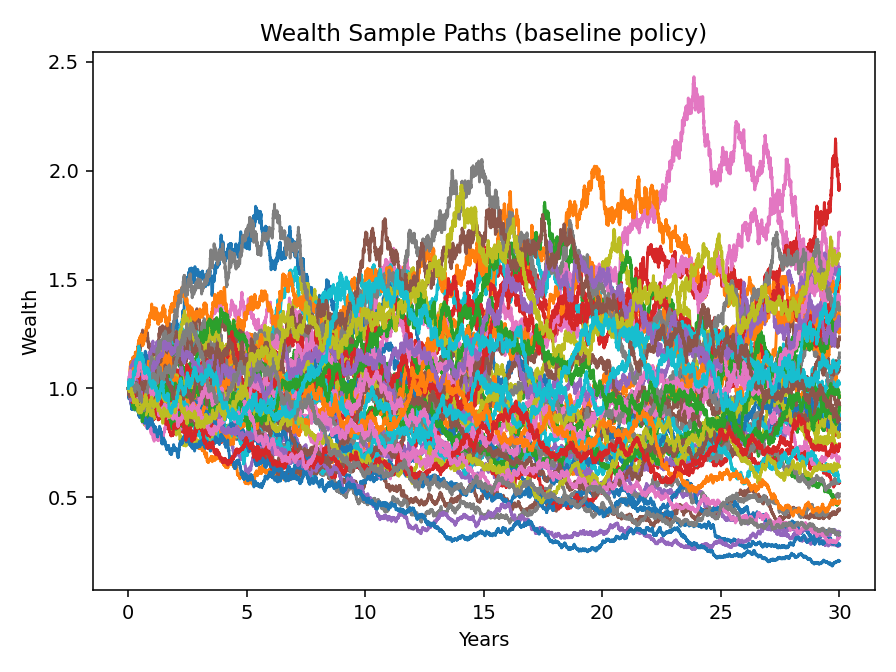
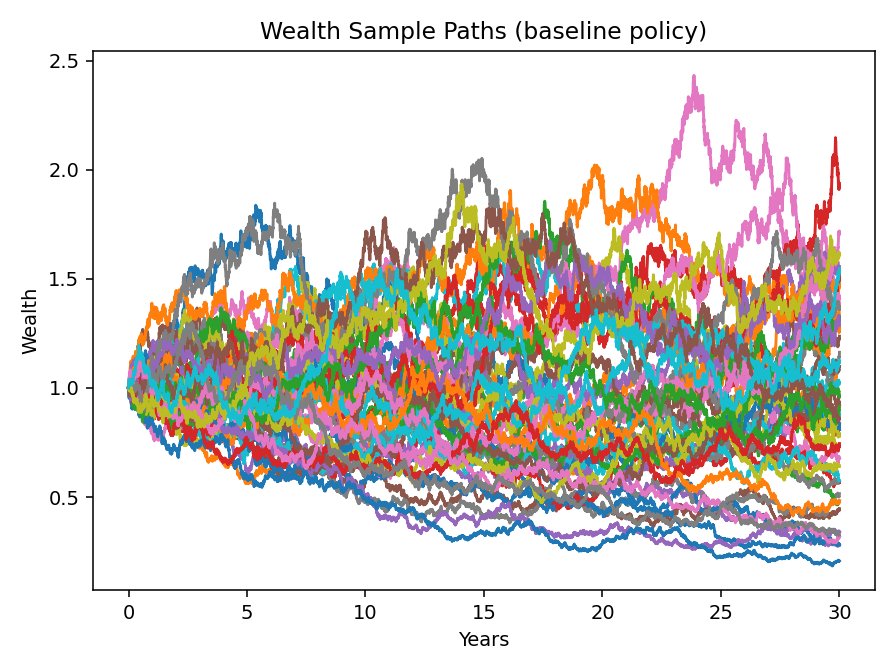
scorebaord

diff --git a/src/models/simulate_wealth.py b/src/models/simulate_wealth.py
@@ -1,10 +1,13 @@
 import numpy as np
 import matplotlib.pyplot as plt
+import os
 
 from src.models.params import ModelParams, SimConfig
 from src.models.policies import constant_policy
 from src.models.dynamics import step_wealth
 from src.models.utility import crra, terminal_crra
+
+RUIN_EPS = 1e-6
 
 
 def simulate(
@@ -27,27 +30,40 @@ def simulate(
     risky = np.zeros((n_steps, sim.n_paths))
 
     disc = np.exp(-params.rho * time_grid[:-1])
+
     du = np.zeros(sim.n_paths)
+    alive = np.ones(sim.n_paths, dtype=bool)  # all start alive
 
     for k in range(n_steps):
+        # controls for all paths (policy can zero out c when wealth==0)
         pi_k, c_k = policy(wealth[k], time_grid[k], params)
         risky[k] = pi_k
         cons[k] = c_k
 
-        du += disc[k] * crra(c_k, params.gamma) * sim.dt
-        wealth[k + 1] = step_wealth(
-            wealth[k],
-            pi_k,
-            c_k,
-            params,
-            sim.dt,
-            z[k],
-            absorb_at_zero=sim.absorb_at_zero,
-        )
+        # accumulate utility ONLY for alive paths
+        if np.any(alive):
+            du[alive] += disc[k] * crra(c_k[alive], params.gamma) * sim.dt
 
-    du += np.exp(-params.rho * time_grid[-1]) * terminal_crra(
-        wealth[-1], params.gamma, params.kappa
-    )
+        # step wealth ONLY for alive paths (dead ones stay at ~0)
+        next_w = wealth[k + 1]     # alias for clarity
+        next_w[:] = wealth[k]      # start from current
+        if np.any(alive):
+            next_w[alive] = step_wealth(
+                wealth[k][alive],
+                pi_k[alive],
+                c_k[alive],
+                params,
+                sim.dt,
+                z[k][alive],
+                absorb_at_zero=sim.absorb_at_zero,
+            )
+
+        # update alive mask AFTER stepping (ruin if near-zero)
+        alive = next_w > RUIN_EPS
+
+        du += np.exp(-params.rho * time_grid[-1]) * terminal_crra(
+            wealth[-1], params.gamma, params.kappa
+        )
 
     return {
         "times": time_grid,
@@ -64,7 +80,35 @@ if __name__ == "__main__":
     t = out["times"]
     w = out["W"]
 
-    # plot a handful of sample wealth paths
+    os.makedirs("data", exist_ok=True)
+
+    # Wealth quantiles
+    q05 = np.quantile(w, 0.05, axis=1)
+    q50 = np.quantile(w, 0.50, axis=1)
+    q95 = np.quantile(w, 0.95, axis=1)
+
+    plt.figure()
+    plt.plot(t, q50, label="median")
+    plt.fill_between(t, q05, q95, alpha=0.25, label="5-95% band")
+    plt.xlabel("Years")
+    plt.ylabel("Wealth")
+    plt.title("Wealth Quantiles")
+    plt.legend()
+    plt.tight_layout()
+    plt.savefig("data/wealth_quantiles.png", dpi=140)
+
+    # Ruin curve (fraction of paths with W<=0 at end of simulation)
+    ruin_curve = (w <= RUIN_EPS).mean(axis=1)
+
+    plt.figure()
+    plt.plot(t, ruin_curve)
+    plt.xlabel("Years")
+    plt.ylabel("Ruin probability")
+    plt.title("Ruin Probability Over Time")
+    plt.tight_layout()
+    plt.savefig("data/ruin_curve.png", dpi=140)
+
+    # Sample paths
     plt.figure()
     sel = min(50, w.shape[1])
     plt.plot(t, w[:, :sel])
@@ -75,4 +119,14 @@ if __name__ == "__main__":
     plt.savefig("data/wealth_paths.png", dpi=140)
     plt.show()
 
-    print("E[discounted utility]:", out["DU"])
+    # Scoreboard
+    W_T = w[-1]
+    scoreboard = {
+        "DU": float(out["DU"]),
+        "mean_W_T": float(W_T.mean()),
+        "median_W_T": float(np.median(W_T)),
+        "p05_W_T": float(np.quantile(W_T, 0.05)),
+        "p95_W_T": float(np.quantile(W_T, 0.95)),
+        "prob_ruin_T": float((W_T <= 0.0).mean()),
+    }
+    print("Run summary:", scoreboard)

diff --git a/scripts/grid_local.py b/scripts/grid_local.py
@@ -1,0 +1,51 @@
+import os
+import csv
+import numpy as np
+
+from src.models.params import ModelParams, SimConfig
+from src.models.policies import constant_policy
+from src.models.simulate_wealth import simulate
+
+
+def make_policy(pi_val: float, alpha_val: float):
+    """Factory for constant (pi, alpha) policies."""
+    def policy(wealth, t, params):
+        return constant_policy(
+            wealth, t, params, pi_const=pi_val, alpha_consume=alpha_val
+        )
+    return policy
+
+
+def main():
+    os.makedirs("data", exist_ok=True)
+
+    params = ModelParams()
+    sim = SimConfig(n_paths=12000, seed=4)
+
+    pi_vals = np.linspace(0.3, 0.7, 5)    # 0.30, 0.40, 0.50, 0.60, 0.70
+    alpha_vals = np.linspace(0.02, 0.06, 9)
+
+    out_path = "data/policy_grid_local.csv"
+    with open(out_path, "w", newline="") as f:
+        w = csv.writer(f)
+        w.writerow([
+            "pi", "alpha", "DU",
+            "mean_W_T", "median_W_T", "p05_W_T", "p95_W_T", "prob_ruin_T"
+        ])
+        for pi in pi_vals:
+            for a in alpha_vals:
+                policy = make_policy(pi, a)
+                res = simulate(params, sim, policy)
+                W_T = res["W"][-1]
+                w.writerow([
+                    float(pi), float(a), float(res["DU"]),
+                    float(W_T.mean()), float(np.median(W_T)),
+                    float(np.quantile(W_T, 0.05)),
+                    float(np.quantile(W_T, 0.95)),
+                    float((W_T <= 0.0).mean()),
+                ])
+    print(f"Wrote {out_path}")
+
+
+if __name__ == "__main__":
+    main()
